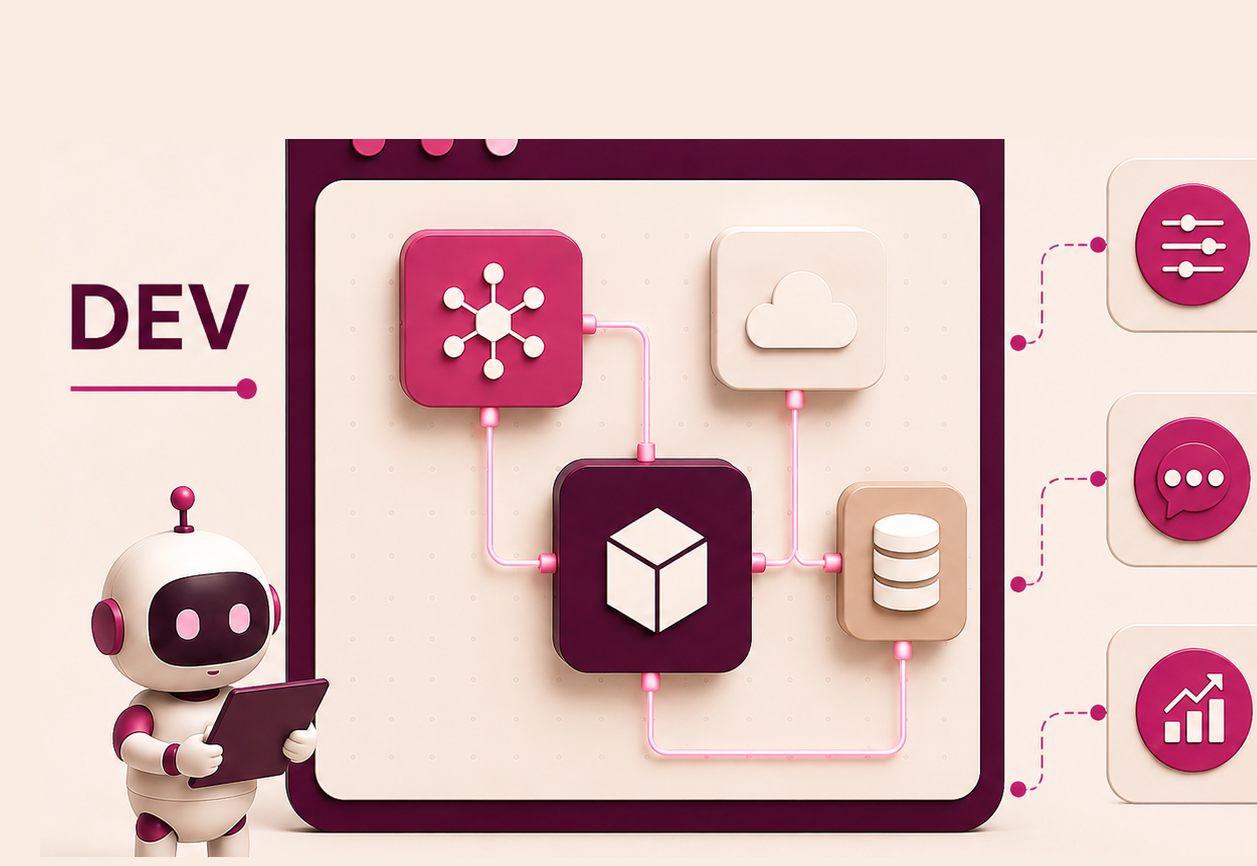
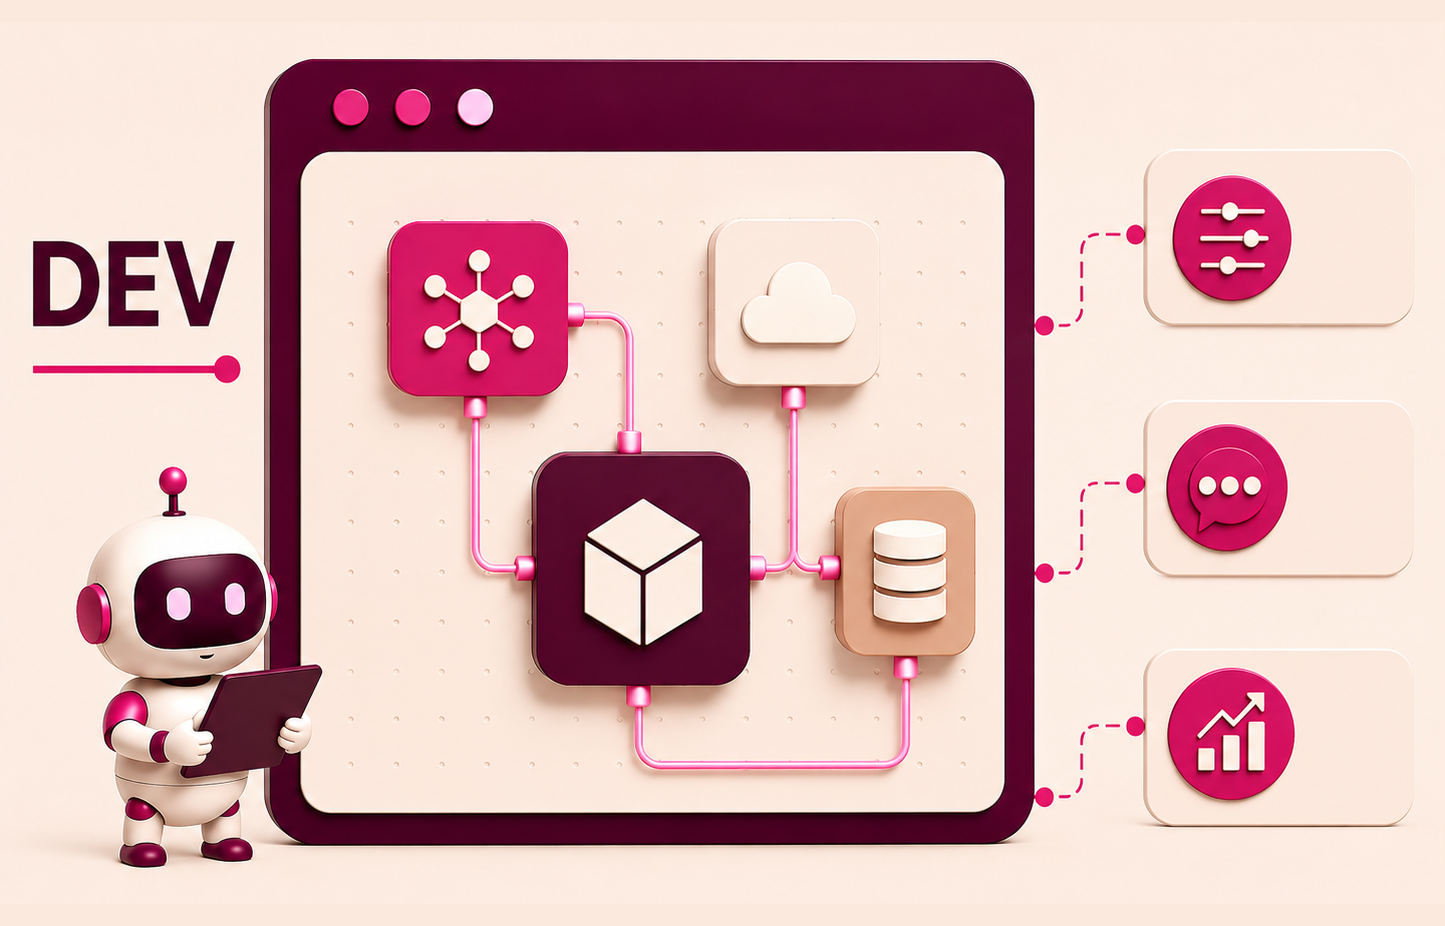
Update approach cards: new suivi image (04), fix card 02 text, remove color filter

diff --git a/index.html b/index.html
@@ -487,10 +487,10 @@
           <span class="approach-card-num">02</span>
           <h3>Développement</h3>
         </div>
-        <p>Conception et déploiement de solutions IA adaptées à vos problématiques métiers : support, RH, commercial ou organisation.</p>
+        <p>Conception et déploiement de solutions IA adaptées à vos métiers : support, RH, commercial ou organisation.</p>
         <p class="approach-objectif"><strong>Objectif :</strong> une intégration IA concrète et efficace.</p>
         <div class="approach-card-img approach-card-img--dev">
-          <img src="assets/approach-ecosystem.png?v=3" alt="Développement de votre écosystème IA EXEC'IA" loading="lazy">
+          <img src="assets/approach-ecosystem.png?v=4" alt="Développement de votre écosystème IA EXEC'IA" loading="lazy">
         </div>
       </div>
 
@@ -516,7 +516,7 @@
         <p>Présence continue à vos côtés, ajustements réguliers, réponses à vos questions et optimisation durable des résultats.</p>
         <p class="approach-objectif"><strong>Objectif :</strong> un suivi régulier pour des résultats durables.</p>
         <div class="approach-card-img approach-card-img--suivi">
-          <img src="assets/approach-suivi.png" alt="Suivi de l'intégration IA EXEC'IA" loading="lazy">
+          <img src="assets/approach-suivi.png?v=3" alt="Suivi de l'intégration IA EXEC'IA" loading="lazy">
         </div>
       </div>
 

diff --git a/assets/style.css b/assets/style.css
@@ -1002,7 +1002,7 @@ footer { background: var(--deep); padding: 52px 36px; text-align: center; }
 .approach-card-img--diag img { object-fit: cover; object-position: center 55%; }
 .approach-card-img--dev { background: #F9ECE3; }
 .approach-card-img--suivi { background: #FAF7F4; }
-.approach-card-img--suivi img { object-fit: contain; object-position: center center; }
+.approach-card-img--suivi img { object-fit: cover; object-position: center center; }
 .approach-card-img--diag { background: #F6EDE5; }
 .approach-card-img img.warm-filter {
   filter: hue-rotate(32deg) saturate(0.88) brightness(0.92);